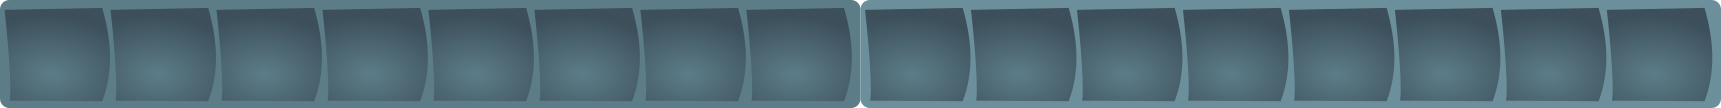
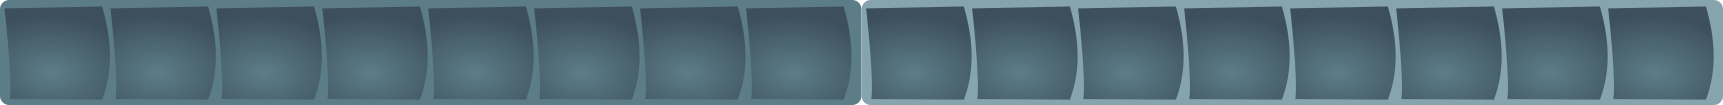
Retirada lixeira

Changed region(s): [[0.0, 0.0, 1.0, 1.0], [0.5543, 0.1429, 0.5851, 0.1714]]

diff --git a/src/controls/CodeEditor.ts b/src/controls/CodeEditor.ts
@@ -4,7 +4,6 @@ import Program from '../program/Program';
 import DropZone from './DropZone';
 import Sounds from '../sounds/Sounds';
 import AlignGrid from '../geom/AlignGrid';
-import Trash from './Trash';
 import FlexFlow from '../geom/FlexFlow';
 import Command from '../program/Command';
 
@@ -16,7 +15,6 @@ export default class CodeEditor {
   fnOnClickStop: () => void;
   sounds: Sounds;
   controlsScale: number;
-  trash: Trash;
   scale: number
   clickTime: number = this.getTime()
   arrowsGrid: FlexFlow;
@@ -38,16 +36,12 @@ export default class CodeEditor {
     this.arrowsGrid.height = controlsImage.displayHeight
 
     this.scale = grid.scale
-    this.trash = new Trash(this.scene, this.grid, 22.5, 11.5, 2.5, 4);
     this.createGlobalDragLogic();
     this.createDraggableProgramCommands();
 
     this.dropZones = programs.map(program => program.dropZone)
     this.createStartStopButtons();
 
-    /* this.trash.onClick(_=>{
-      program.clear()
-    }) */
   }
 
   createEventsToCommandsForAddedPrograms() {
@@ -125,7 +119,6 @@ export default class CodeEditor {
         this.sounds.drag();
         this.createDraggableProgramCommands(commandSprite.texture.key);
         commandSprite.setScale(this.scale * 1.2)
-        this.trash.open();
       })
       commandSprite.on('dragend', _ => {
         console.log("MOVE_EVENT", "dragend");
@@ -151,11 +144,10 @@ export default class CodeEditor {
 
         if (!clicked) {
           if (dropped) {
-            const isHoverTrash = this.trash.spriteIsHover(commandSprite);
-            if (!isHoverTrash) {
+            if(programToDropInto){
               command.setProgram(programToDropInto);
             }
-            if (isHoverTrash) {
+            if(!programToDropInto){
               command.removeSelf();
             }
           }
@@ -166,7 +158,6 @@ export default class CodeEditor {
         }
 
         this.highlightDropZones(false);
-        this.trash.close();
         commandSprite.setScale(this.scale);
       })
       commandSprite.on('drop', (pointer: Phaser.Input.Pointer, dropZone: Phaser.GameObjects.Zone) => {

diff --git a/src/scenes/Game.ts b/src/scenes/Game.ts
@@ -39,7 +39,7 @@ export default class Game extends Scene {
 
     this.load.spritesheet('btn-play', 'assets/ct/btn_play.png', { frameWidth: 100, frameHeight: 100 });
     this.load.spritesheet('btn-stop', 'assets/ct/btn_stop.png', { frameWidth: 100, frameHeight: 100 });
-    this.load.spritesheet('drop-zone', 'assets/ct/programming_zone.png', { frameWidth: 861, frameHeight: 108 });
+    this.load.spritesheet('drop-zone', 'assets/ct/programming_zone.png', { frameWidth: 861, frameHeight: 105 });
     this.load.spritesheet('sprite-girl', 'assets/ct/sprite_girl.png', { frameWidth: 30, frameHeight: 77 });
     //this.load.spritesheet('sprite-boy', 'assets/ct/sprite_boy.png', { frameWidth: 57, frameHeight: 110 });
     this.load.spritesheet('sprite-rope', 'assets/ct/rope_walk.png', { frameWidth: 65, frameHeight: 89 });

diff --git a/src/program/Program.ts b/src/program/Program.ts
@@ -22,7 +22,7 @@ export default class Program {
     this.grid = grid;
     this.commands = new Array();
     this.dropZone = createDropZone(this.grid, x, y, width, height, sprite);
-    this.grid.addImage(x - 2, y, name).setScale(this.grid.scale * 0.8);
+    this.grid.addImage(x - 2, y, name, 2, 3);
   }
 
   addCommands(commands: string[]) {

diff --git a/src/main.ts b/src/main.ts
@@ -36,8 +36,8 @@ export default new Phaser.Game({
       gravity: {
         y: 0
       },
-      debug: true
-      //debug: false
+      //debug: true
+      debug: false
     }
   }
 })
